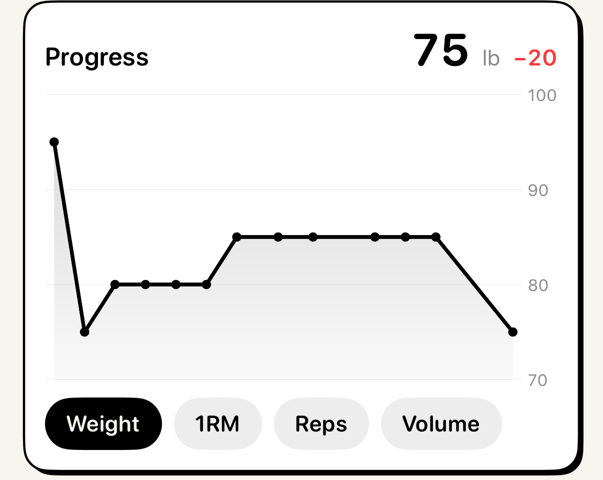
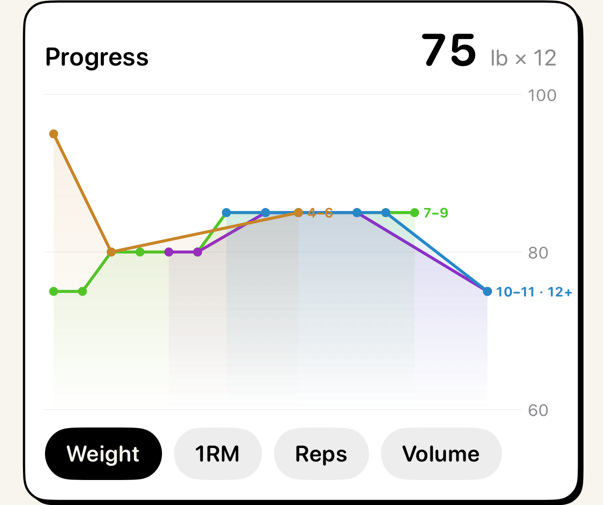
Gym chart: Weight tab shows one line per rep band, colored red to purple by reps

diff --git a/Bento/Gym/Views/LogViews.swift b/Bento/Gym/Views/LogViews.swift
@@ -495,7 +495,9 @@ struct SetEntrySheet: View {
     }
 }
 
-/// One value per session (best weight, est. 1RM, most reps or volume) as a filled line. Sessions sit
+/// Weight: one line per rep band (heaviest set of 7–9s, of 12+, …), colored along a red → purple
+/// gradient by reps, heavier lines drawn on top. Other tabs: one value per session (est. 1RM, most
+/// reps or volume) as a filled line. Sessions sit
 /// one step apart and a break widens the step logarithmically, so a 3-month gap shows without
 /// eating the width. Tap a point for that day.
 struct ProgressChart: View {
@@ -578,6 +580,61 @@ struct ProgressChart: View {
 
     private var unit: String { shownMetric == .reps ? "reps" : "lb" }
 
+    /// Rep bands, so 11s and 12s don't each get a line: lower bound of each band
+    static let bands = [1, 4, 7, 10, 12]
+
+    static func band(_ reps: Int) -> Int { bands.last { $0 <= reps } ?? 1 }
+
+    static func bandName(_ b: Int) -> String {
+        guard let i = bands.firstIndex(of: b) else { return "\(b)" }
+        if i == bands.count - 1 { return "\(b)+" }
+        let hi = bands[i + 1] - 1
+        return hi == b ? "\(b)" : "\(b)–\(hi)"
+    }
+
+    /// One rep band's heaviest set per session, e.g. every time you did 7–9 reps
+    private struct Series: Identifiable {
+        var id: Int { band }
+        let band: Int
+        let points: [(x: Double, weight: Double)]
+    }
+
+    private static func series(_ days: [Day]) -> [Series] {
+        var byBand: [Int: [(x: Double, weight: Double)]] = [:]
+        for d in days {
+            for b in Set(d.sets.map { band($0.reps) }) {
+                let w = d.sets.filter { band($0.reps) == b }.map(\.weight).max()!
+                byBand[b, default: []].append((d.x, w))
+            }
+        }
+        // Lightest first, so heavier lines draw over lighter ones
+        return byBand.map { Series(band: $0.key, points: $0.value) }
+            .sorted { avg($0) < avg($1) }
+    }
+
+    private static func avg(_ s: Series) -> Double { s.points.map(\.weight).reduce(0, +) / Double(s.points.count) }
+
+    /// Rep band → color, interpolated along the hue wheel by rep count: 1 red, 4 orange, 7 green,
+    /// 10 blue, 12+ purple. The curve ($t^{1.6}$) keeps low reps in the warm colors
+    static func repColor(_ band: Int) -> Color {
+        let t = pow(Double(min(band, 12) - 1) / 11, 1.6)
+        return Color(hue: 0.78 * t, saturation: 0.8, brightness: 0.78)
+    }
+
+    /// End-of-line labels; lines ending on the same spot share one ("10–11 · 12+")
+    private static func endLabels(_ lines: [Series]) -> [Int: String] {
+        var byEnd: [String: [Int]] = [:]
+        for l in lines { if let e = l.points.last { byEnd["\(e.x)|\(e.weight)", default: []].append(l.band) } }
+        var out: [Int: String] = [:]
+        for bands in byEnd.values {
+            // Label sits on the line drawn last (the heaviest), listing every band ending there
+            if let top = lines.last(where: { bands.contains($0.band) }) {
+                out[top.band] = bands.sorted().map(bandName).joined(separator: " · ")
+            }
+        }
+        return out
+    }
+
     var body: some View {
         let days = makeDays()
 
@@ -585,14 +642,18 @@ struct ProgressChart: View {
             EmptyView()
         } else {
             let m = shownMetric
-            let values = days.map { $0.value(m) }
+            let bySeries = m == .weight
+            let lines = bySeries ? Self.series(days) : []
+            let labels = Self.endLabels(lines)
+            let values = bySeries ? days.flatMap { $0.sets.map(\.weight) } : days.map { $0.value(m) }
             let lo = values.min()!, hi = values.max()!
             let pad = max(m == .reps ? 1 : 5, (hi - lo) * 0.15)
             let yMin = max(0, lo - pad)
             let yMax = hi + pad
             let xMax = days.last!.x
             let shown = selected.flatMap { i in days.first { $0.index == i } } ?? days.last!
-            let delta = shown.value(m) - values[0]
+            let delta = shown.value(m) - days[0].value(m)
+            let bestSet = shown.sets.max { ($0.weight, $0.reps) < ($1.weight, $1.reps) }!
 
             VStack(alignment: .leading, spacing: 12) {
                 HStack(alignment: .firstTextBaseline) {
@@ -609,30 +670,66 @@ struct ProgressChart: View {
                         }
                     }
                     Spacer()
-                    Text(format(shown.value(m)))
-                        .font(.system(size: 30, weight: .bold).monospacedDigit())
-                    Text(unit).font(.subheadline).foregroundStyle(.secondary)
-                    if delta != 0 {
-                        Text("\(delta > 0 ? "+" : "−")\(format(abs(delta)))")
-                            .font(.subheadline.weight(.semibold).monospacedDigit())
-                            .foregroundStyle(delta > 0 ? Color.bentoActivity : .red)
+                    if bySeries {
+                        Text(bestSet.weight.clean)
+                            .font(.system(size: 30, weight: .bold).monospacedDigit())
+                        Text("lb × \(bestSet.reps)").font(.subheadline).foregroundStyle(.secondary)
+                    } else {
+                        Text(format(shown.value(m)))
+                            .font(.system(size: 30, weight: .bold).monospacedDigit())
+                        Text(unit).font(.subheadline).foregroundStyle(.secondary)
+                        if delta != 0 {
+                            Text("\(delta > 0 ? "+" : "−")\(format(abs(delta)))")
+                                .font(.subheadline.weight(.semibold).monospacedDigit())
+                                .foregroundStyle(delta > 0 ? Color.bentoActivity : .red)
+                        }
                     }
                 }
 
                 Chart {
-                    ForEach(days) { d in
-                        AreaMark(x: .value("Session", d.x), yStart: .value("min", yMin), yEnd: .value(unit, d.value(m)))
-                            .foregroundStyle(LinearGradient(colors: [Color.primary.opacity(0.14), Color.primary.opacity(0.02)],
-                                                            startPoint: .top, endPoint: .bottom))
-                        LineMark(x: .value("Session", d.x), y: .value(unit, d.value(m)))
-                            .foregroundStyle(Color.primary)
-                            .lineStyle(StrokeStyle(lineWidth: 2.5, lineCap: .round, lineJoin: .round))
-                        PointMark(x: .value("Session", d.x), y: .value(unit, d.value(m)))
-                            .foregroundStyle(Color.primary)
-                            .symbolSize(d.index == selected ? 110 : 30)
+                    if bySeries {
+                        ForEach(lines) { line in
+                            let color = Self.repColor(line.band)
+                            ForEach(Array(line.points.enumerated()), id: \.offset) { k, pt in
+                                AreaMark(x: .value("Session", pt.x), yStart: .value("min", yMin), yEnd: .value("lb", pt.weight),
+                                         series: .value("Reps", line.band))
+                                    .foregroundStyle(LinearGradient(colors: [color.opacity(0.12), color.opacity(0.0)],
+                                                                    startPoint: .top, endPoint: .bottom))
+                                LineMark(x: .value("Session", pt.x), y: .value("lb", pt.weight), series: .value("Reps", line.band))
+                                    .foregroundStyle(color)
+                                    .lineStyle(StrokeStyle(lineWidth: 2, lineCap: .round, lineJoin: .round))
+                                PointMark(x: .value("Session", pt.x), y: .value("lb", pt.weight))
+                                    .foregroundStyle(color)
+                                    .symbolSize(28)
+                                    .annotation(position: .trailing, spacing: 3) {
+                                        // Rep band once, at the end of each line
+                                        if k == line.points.count - 1, let label = labels[line.band] {
+                                            Text(label)
+                                                .font(.system(size: 9, weight: .bold)).foregroundStyle(color)
+                                        }
+                                    }
+                            }
+                        }
+                    } else {
+                        ForEach(days) { d in
+                            AreaMark(x: .value("Session", d.x), yStart: .value("min", yMin), yEnd: .value(unit, d.value(m)))
+                                .foregroundStyle(LinearGradient(colors: [Color.primary.opacity(0.14), Color.primary.opacity(0.02)],
+                                                                startPoint: .top, endPoint: .bottom))
+                            LineMark(x: .value("Session", d.x), y: .value(unit, d.value(m)))
+                                .foregroundStyle(Color.primary)
+                                .lineStyle(StrokeStyle(lineWidth: 2.5, lineCap: .round, lineJoin: .round))
+                            PointMark(x: .value("Session", d.x), y: .value(unit, d.value(m)))
+                                .foregroundStyle(Color.primary)
+                                .symbolSize(30)
+                        }
+                    }
+                    if let i = selected, let d = days.first(where: { $0.index == i }) {
+                        RuleMark(x: .value("Session", d.x))
+                            .foregroundStyle(Color.primary.opacity(0.25))
+                            .lineStyle(StrokeStyle(lineWidth: 1, dash: [3, 3]))
                     }
                 }
-                .chartXScale(domain: -0.3...(xMax + 0.3))
+                .chartXScale(domain: -0.3...(xMax + (bySeries ? 1.2 : 0.3)))
                 .chartYScale(domain: yMin...yMax)
                 .chartXAxis(.hidden)
                 .chartYAxis {
@@ -652,7 +749,7 @@ struct ProgressChart: View {
                             }
                     }
                 }
-                .frame(height: 190)
+                .frame(height: 210)
 
                 if metrics.count > 1 {
                     HStack(spacing: 8) {
